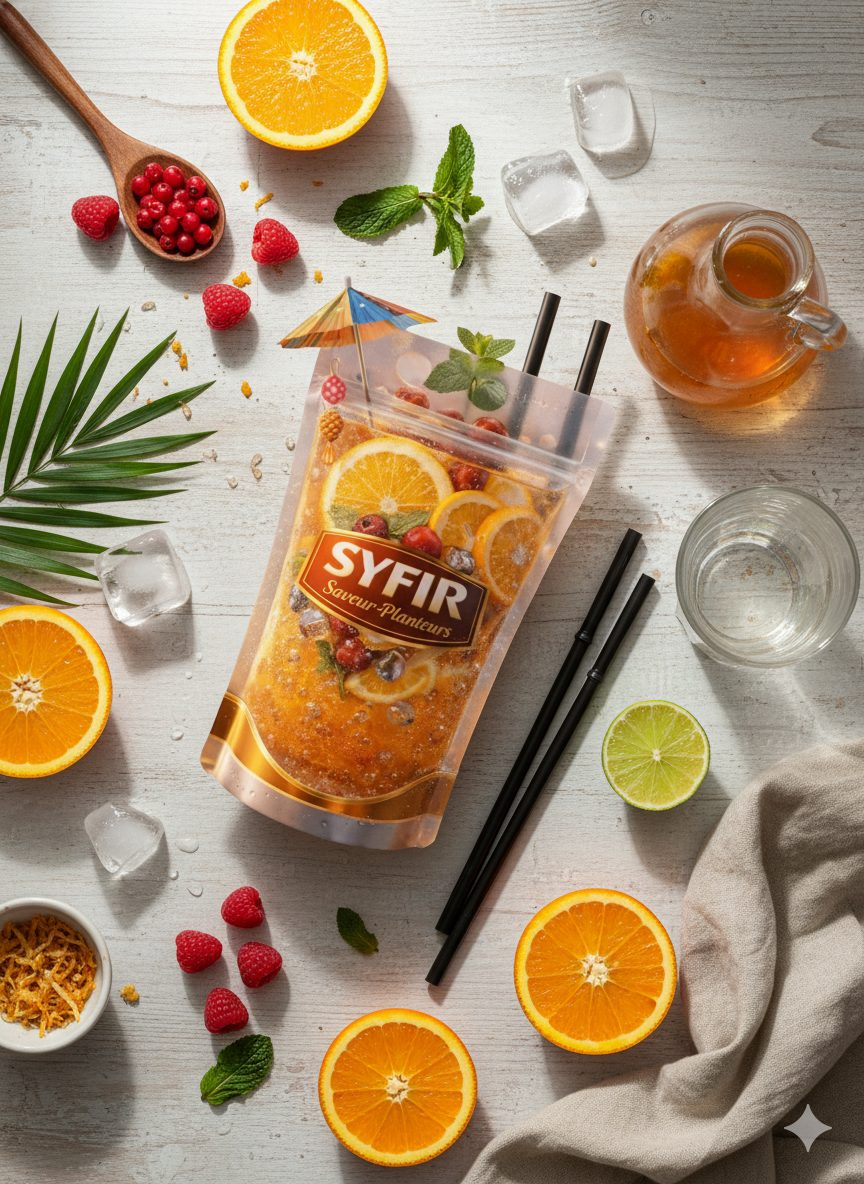
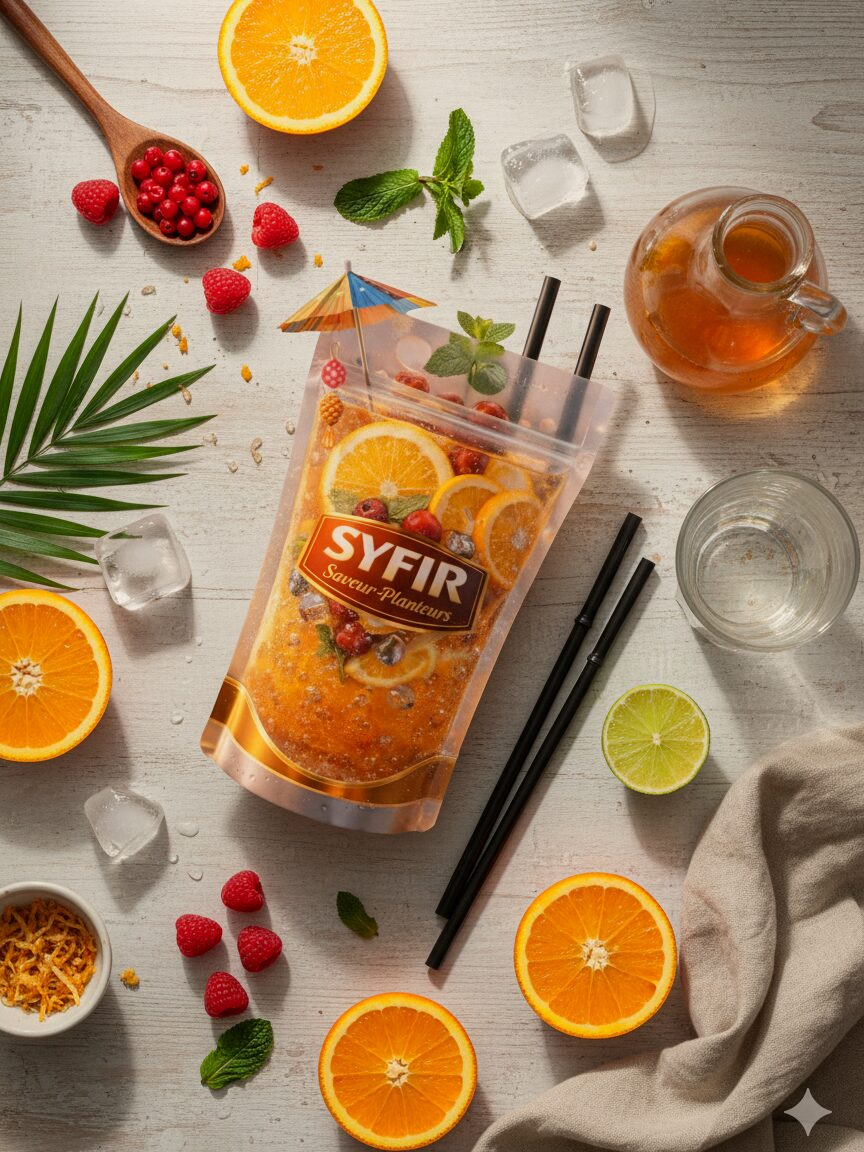
appetit: retouche chaude des visuels produit + WebP + voile sunset
- tools/retouche-images.sh (reproductible, ImageMagick) : recadrage 3:4
  centré identique pour les 3 visuels Planteur, luminosité ramenée vers
  une moyenne commune (facteur borné), balance chaude légère (+4 % R,
  −4 % B), saturation +12 % — les oranges dominent. Originaux intacts
  dans images/originaux/.
- Export double : JPEG q82 (fallback) + WebP q80, tout < 400 Ko
  (WebP : −40 à −53 % vs JPEG).
- <picture> WebP + fallback jpg sur les visuels statiques (teaser accueil,
  carte et formats saveurs) ; preload WebP de l'image LCP sur saveurs.
- Voile chaud sunset→passion à 10 % d'opacité sur .cocktail-media et
  .ck-hero (pointer-events none, badge repassé au-dessus).

Claude-Session: https://claude.ai/code/session_01SqJ8CtUft9CqLses92fqF5

diff --git a/saveurs.html b/saveurs.html
@@ -11,6 +11,8 @@
 <meta name="twitter:card" content="summary_large_image">
 <meta name="twitter:image" content="images/produits/syf-planteur-1.jpg">
 <title>Saveurs — SYFIR, Le Cocktail Libre™</title>
+<!-- LCP : 1re carte cocktail (visuel officiel) préchargée en WebP -->
+<link rel="preload" as="image" type="image/webp" fetchpriority="high" href="images/produits/syf-planteur-1.webp">
 <link rel="preconnect" href="https://fonts.googleapis.com">
 <link rel="preconnect" href="https://fonts.gstatic.com" crossorigin>
 <link href="https://fonts.googleapis.com/css2?family=Fraunces:ital,opsz,wght@0,9..144,200;0,9..144,300;0,9..144,400;1,9..144,200;1,9..144,300;1,9..144,400&family=Montserrat:wght@300;400;500;600;700;800;900&family=Plus+Jakarta+Sans:wght@300;400;500;600;700&display=swap" rel="stylesheet">
@@ -101,8 +103,11 @@
         data-photos="images/produits/syf-planteur-1.jpg|images/produits/syf-planteur-2.jpg|images/produits/syf-planteur-3.jpg"
         data-video="videos/syf-planteur.mp4">
         <div class="cocktail-media">
-          <img src="images/produits/syf-planteur-1.jpg"
-               alt="Syf Planteur — le sachet signature SYFIR sur une table en bois face à la plage" fetchpriority="high">
+          <picture>
+            <source type="image/webp" srcset="images/produits/syf-planteur-1.webp">
+            <img src="images/produits/syf-planteur-1.jpg"
+                 alt="Syf Planteur — le sachet signature SYFIR sur une table en bois face à la plage" fetchpriority="high">
+          </picture>
           <span class="cocktail-badge">Best-seller</span>
         </div>
         <div class="cocktail-body">
@@ -229,11 +234,17 @@
       <p class="pm-desc" id="ckDesc"></p>
       <div class="ck-formats">
         <div class="ck-format">
-          <img src="images/produits/syf-planteur-verre.jpg" alt="" loading="lazy">
+          <picture>
+            <source type="image/webp" srcset="images/produits/syf-planteur-verre.webp">
+            <img src="images/produits/syf-planteur-verre.jpg" alt="" loading="lazy">
+          </picture>
           <div><strong>🥂 Sur place</strong><small>Servi dans le verre SYFIR</small></div>
         </div>
         <div class="ck-format">
-          <img src="images/produits/syf-planteur-1.jpg" alt="" loading="lazy">
+          <picture>
+            <source type="image/webp" srcset="images/produits/syf-planteur-1.webp">
+            <img src="images/produits/syf-planteur-1.jpg" alt="" loading="lazy">
+          </picture>
           <div><strong>🛍 À emporter</strong><small>Sachet scellé signature</small></div>
         </div>
       </div>

diff --git a/style.css b/style.css
@@ -578,8 +578,16 @@ html[data-theme="light"] .next-arrow { color: #A04600; }
 .cocktail-media { position: relative; overflow: hidden; aspect-ratio: 5 / 4; }
 .cocktail-media img { width: 100%; height: 100%; object-fit: cover; object-position: center; transition: transform var(--dur-med) var(--ease); }
 .cocktail-card:hover .cocktail-media img { transform: scale(1.03); }
+/* Appétit : voile chaud très léger sur le visuel produit (tons chauds
+   = intention d'achat mesurée en hausse) — 10 %, jamais criard */
+.cocktail-media::after,
+.ck-hero::after {
+  content: ''; position: absolute; inset: 0; z-index: 1;
+  background: linear-gradient(160deg, var(--sunset), var(--passion));
+  opacity: .1; pointer-events: none;
+}
 .cocktail-badge {
-  position: absolute; top: 16px; left: 16px;
+  position: absolute; top: 16px; left: 16px; z-index: 2;
   font-family: var(--display); font-size: .65rem; font-weight: 800;
   letter-spacing: .18em; text-transform: uppercase;
   padding: 8px 16px; border-radius: 100px;

diff --git a/index.html b/index.html
@@ -197,7 +197,10 @@
     <div class="cocktail-grid">
       <a class="cocktail-card cocktail-teaser reveal d1" href="saveurs.html" aria-label="Découvrir Syf Planteur sur la page Saveurs">
         <div class="cocktail-media">
-          <img src="images/produits/syf-planteur-1.jpg" alt="Syf Planteur — le sachet signature SYFIR" loading="lazy">
+          <picture>
+            <source type="image/webp" srcset="images/produits/syf-planteur-1.webp">
+            <img src="images/produits/syf-planteur-1.jpg" alt="Syf Planteur — le sachet signature SYFIR" loading="lazy">
+          </picture>
           <span class="cocktail-badge">Best-seller</span>
         </div>
         <div class="cocktail-body">
